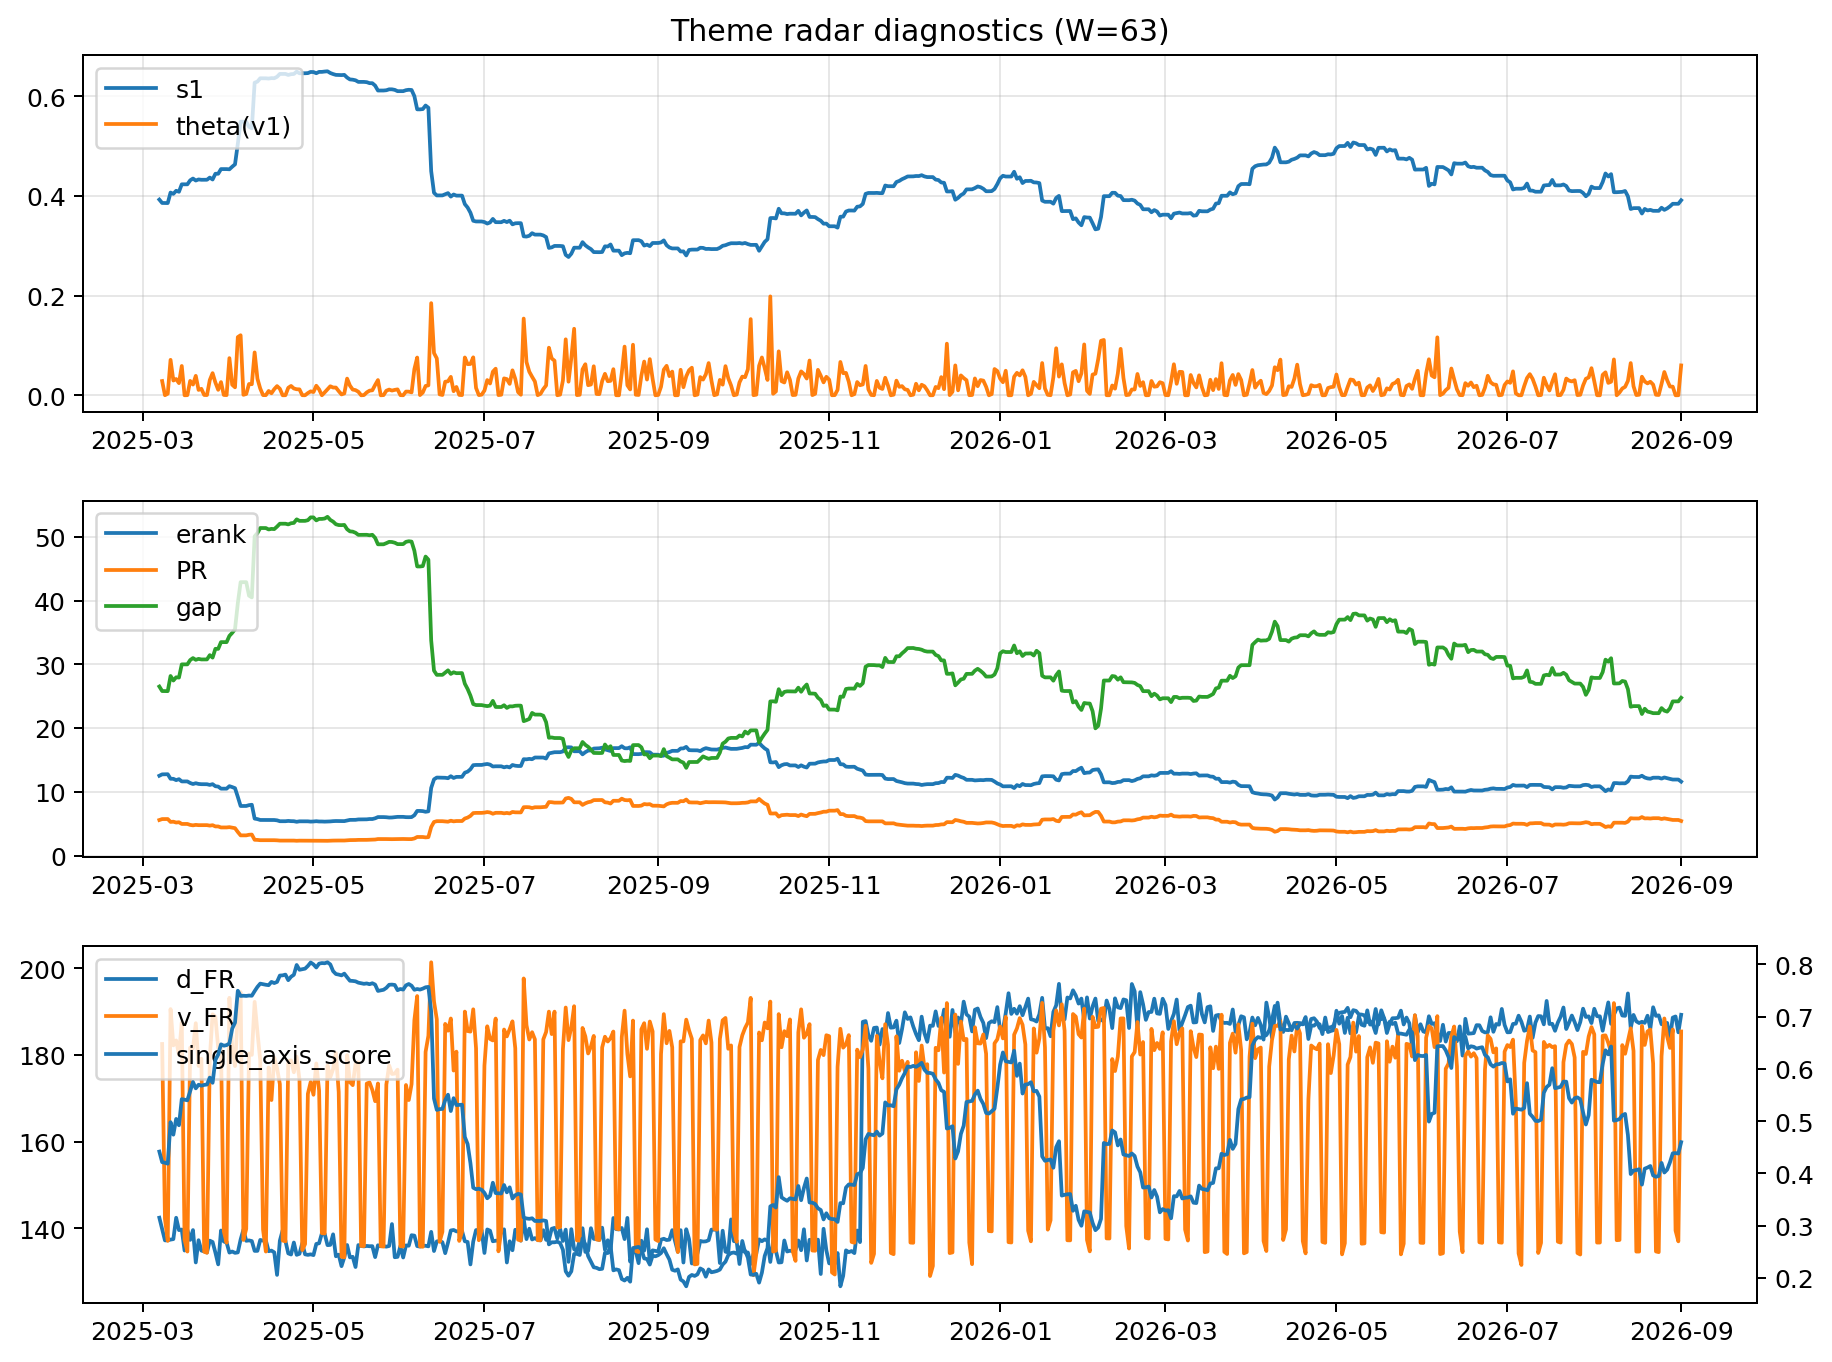
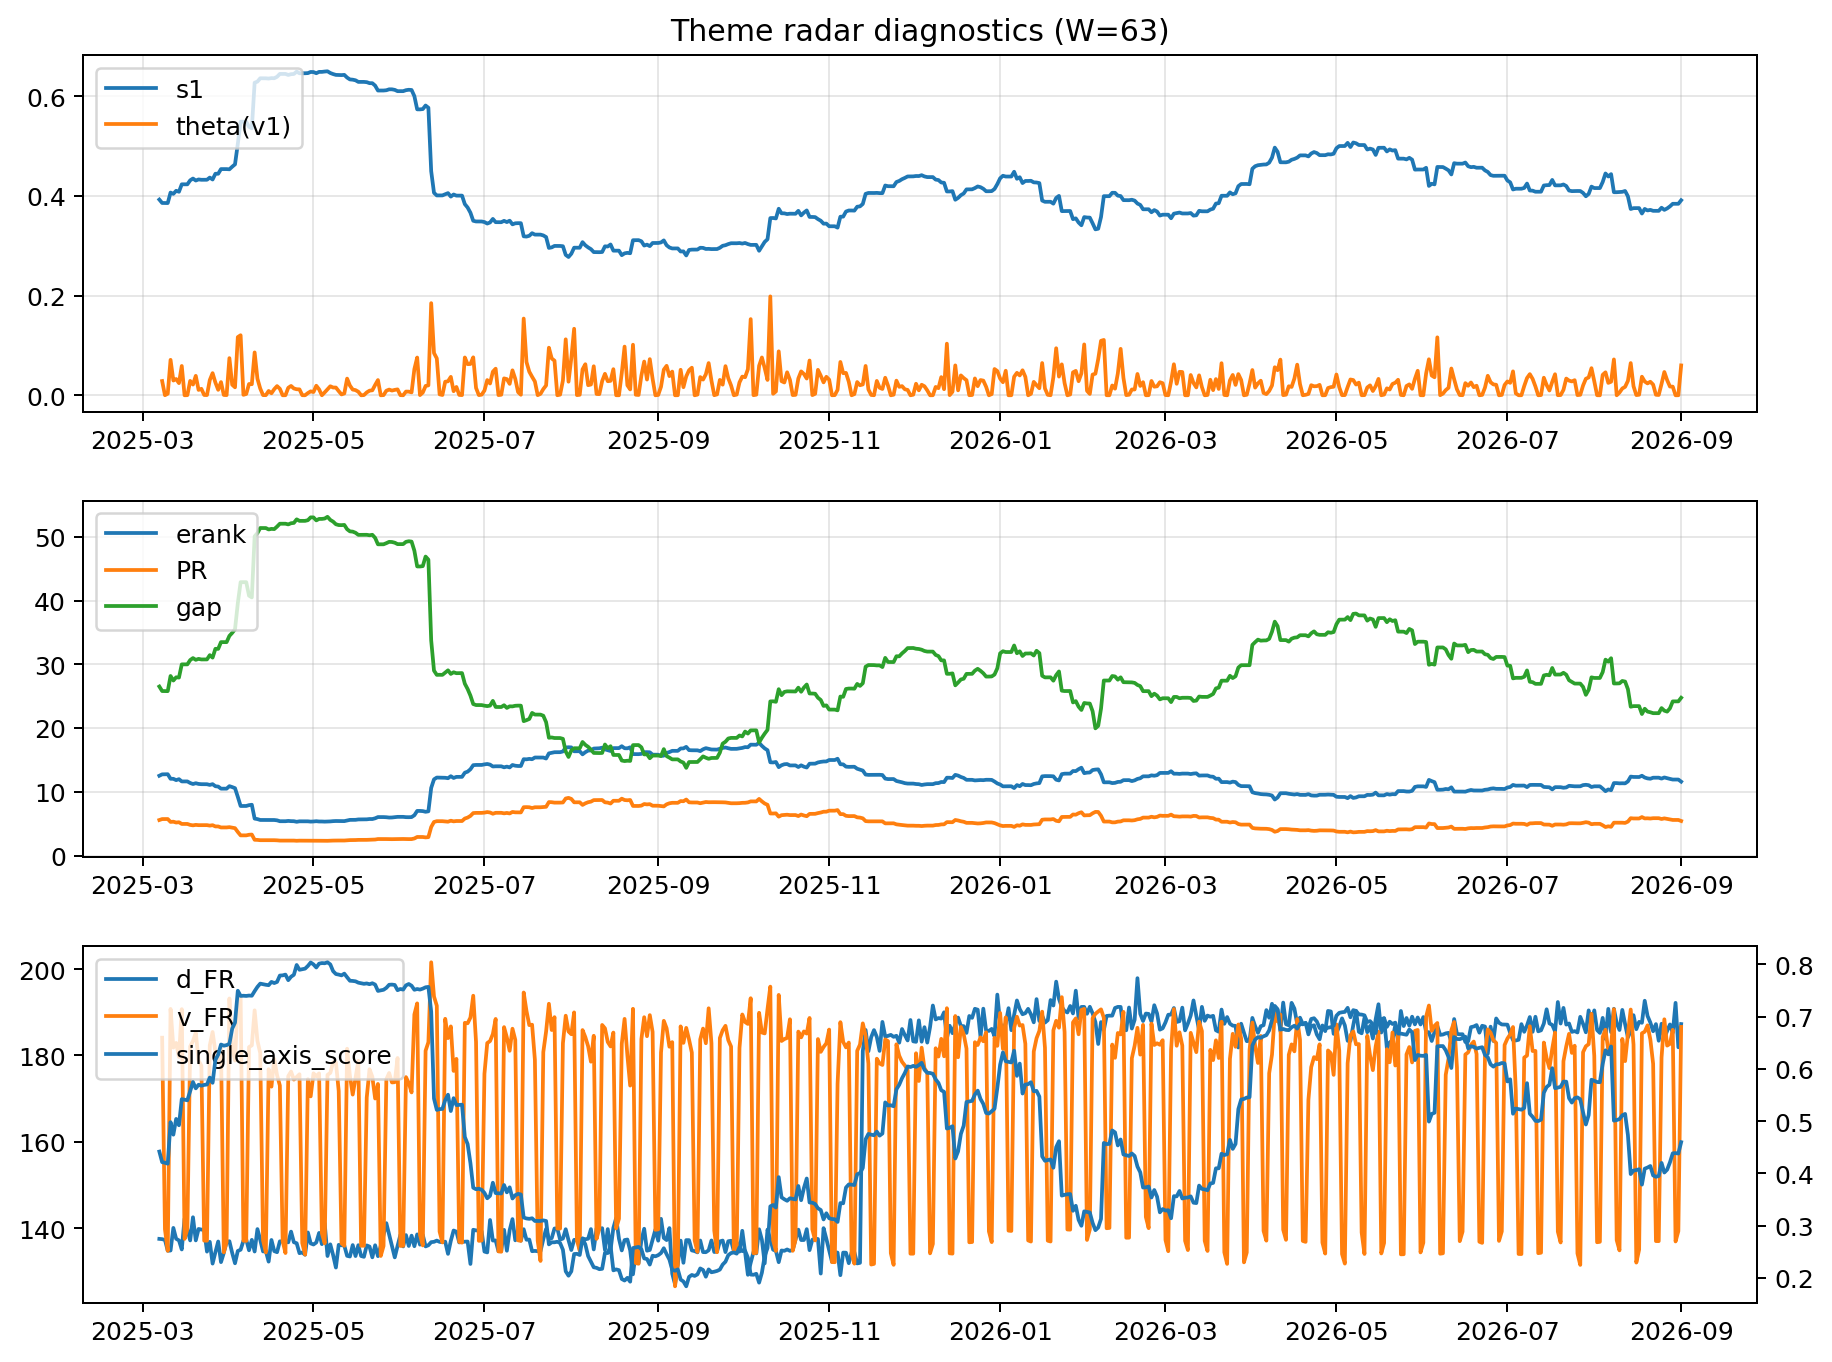
log: 2026-09-01 | sha256:e44e8bbbdb7467dbaa64deb04e40ec1f0d04712e8e48cf6f2733c1a0ad62ed7e

Changed region(s): [[0.0933, 0.7093, 0.9334, 0.9559], [0.6845, 0.8943, 0.7778, 0.9251], [0.0933, 0.7401, 0.1245, 0.7709]]

diff --git a/logs/2026-09-01.md b/logs/2026-09-01.md
@@ -3,43 +3,43 @@
 ![diagnostic W63](../assets/diagnostic/2026-09-01_W63.png)
 
 ## Leaders (v1) — W=63
-- **Nuclear_Uranium** (0.0924703202866406)
-- Semis (0.0710760540662748)
-- Quantum (0.0635947272922081)
+- **Nuclear_Uranium** (0.0924703346395544)
+- Semis (0.0710760548787258)
+- Quantum (0.0635947356432042)
 
 ## Challengers — W=63
-**v2:** Rates (0.0922435354061026), Genomics_Bio (0.0836594087508597), Semis (0.0774149270430185)
-**v3:** Crypto (0.0855039217062454), Metals (0.083822098886604), Software_Cloud (0.0743734407966286)
+**v2:** Rates (0.0922436634460223), Genomics_Bio (0.0836593441825283), Semis (0.0774149071141301)
+**v3:** Crypto (0.0855039032245451), Metals (0.0838221066282343), Software_Cloud (0.0743734514343765)
 
 ## Migration (20D slope) — W=63
 **Top risers:**
-- axis_Space: 0.0004140361457
-- axis_Genomics_Bio: 0.0002238190775385
-- axis_Commodities: 0.0001813444377487
-- axis_Drones_Autonomy: 0.0001660426785943
-- axis_Nuclear_Uranium: 0.0001517011796896
-- axis_Software_Cloud: 0.0001165900179639
-- axis_Quantum: 9.71988696337633e-05
-- axis_DataCenter_Infra: 7.703404220394914e-05
-- axis_USD: 5.581268567420013e-05
-- axis_Clean_Broad: 4.673603306446026e-05
+- axis_Space: 0.0004140362174351
+- axis_Genomics_Bio: 0.0002238187841044
+- axis_Commodities: 0.0001813441465443
+- axis_Drones_Autonomy: 0.0001660426572995
+- axis_Nuclear_Uranium: 0.0001517013191999
+- axis_Software_Cloud: 0.000116589480253
+- axis_Quantum: 9.71988384898169e-05
+- axis_DataCenter_Infra: 7.703409179623098e-05
+- axis_USD: 5.581266705900569e-05
+- axis_Clean_Broad: 4.67362399429598e-05
 
 **Top fallers:**
-- axis_Grid_Power: -4.268469510731777e-05
-- axis_Sector_Tech: -4.297933724633109e-05
-- axis_Sector_ConsDisc: -7.966067301876109e-05
-- axis_Miners: -8.146677108768011e-05
-- axis_Critical_Minerals: -8.627522115020005e-05
-- axis_Metals: -9.372312327300512e-05
-- axis_Semis: -0.0001112922820064
-- axis_MegaCap_AI: -0.0001518857625268
-- axis_Sector_Health: -0.000179200010027
-- axis_Crypto: -0.0004646258135609
+- axis_Grid_Power: -4.268419133574705e-05
+- axis_Sector_Tech: -4.2979284468716415e-05
+- axis_Sector_ConsDisc: -7.966068884844306e-05
+- axis_Miners: -8.146677350761811e-05
+- axis_Critical_Minerals: -8.627510319986879e-05
+- axis_Metals: -9.372320442570604e-05
+- axis_Semis: -0.0001112919155641
+- axis_MegaCap_AI: -0.0001518856330681
+- axis_Sector_Health: -0.0001791999112694
+- axis_Crypto: -0.0004646262322122
 
 ## Risk line (W=63)
-- s1: 0.3912188535443007
-- theta_v1: 0.0599390383693236
-- v_FR: 185.3914732494226
+- s1: 0.3912187975462428
+- theta_v1: 0.0599389517078212
+- v_FR: 186.61212505207936
 - single_axis_score: 0.4599264705882353
 
 ## Interpretation
@@ -48,7 +48,7 @@
 - Action: Tomorrow watchlist: Space, Genomics_Bio, Commodities, Drones_Autonomy, Nuclear_Uranium + v2_top1=Rates
 - Action: Hedge note: normal correlation stability.
 
-- Percentiles (W=63 history): vfr_pct=0.79, theta_pct=0.91, s1_pct=0.40, score_pct=0.43.
+- Percentiles (W=63 history): vfr_pct=0.83, theta_pct=0.91, s1_pct=0.40, score_pct=0.43.
 
 ---
[2 lines of base64/hex data omitted]
